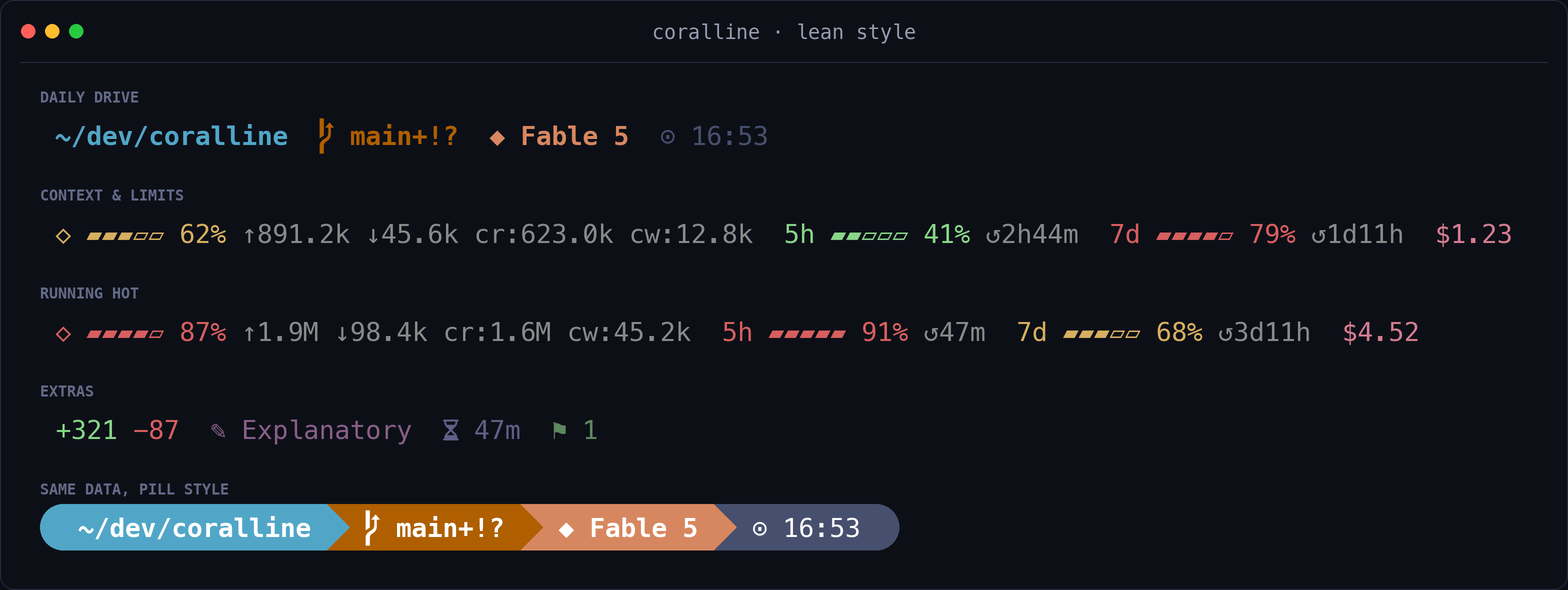
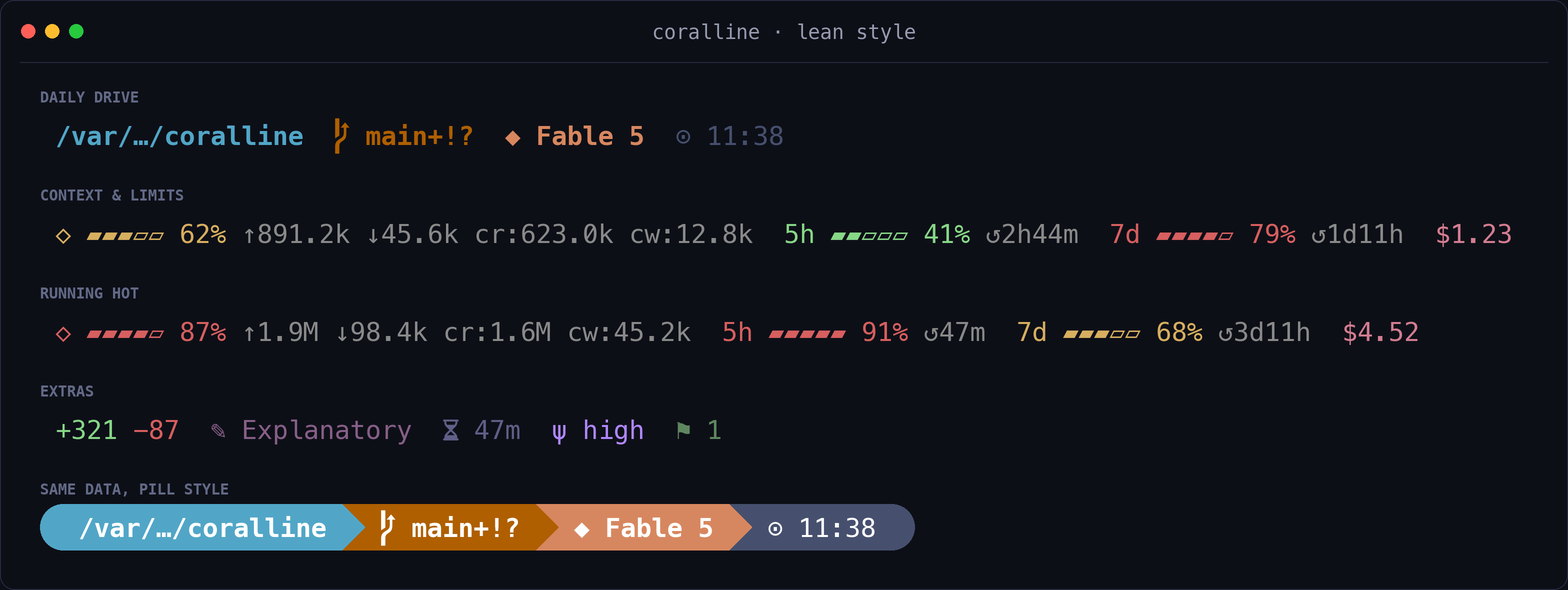
docs: surface effort in the README example, lean screenshot, and an overview image
- add `ψ high` to the headline statusline example (README + zh-TW)
- add effort to the lean-style "extras" demo and regenerate style-lean.png
- add assets/effort-segment.png showcasing the ψ pill across all effort levels

Changed region(s): [[0.0312, 0.8542, 0.5938, 0.9458], [0.0312, 0.1831, 0.5, 0.2746], [0.3438, 0.7017, 0.4375, 0.7627]]

diff --git a/tools/render-screenshots.py b/tools/render-screenshots.py
@@ -295,7 +295,7 @@ def lean_blocks():
         ("daily drive",       run_bar("claude-coral", "dir git model clock", LOW, lean)),
         ("context & limits",  run_bar("claude-coral", "ctx limit5h limit7d cost", MID, lean)),
         ("running hot",       run_bar("claude-coral", "ctx limit5h limit7d cost", HIGH, lean)),
-        ("extras",            run_bar("claude-coral", "lines style duration stash", HIGH, lean)),
+        ("extras",            run_bar("claude-coral", "lines style duration effort stash", HIGH, lean)),
         ("same data, pill style", run_bar("claude-coral", "dir git model clock", LOW)),
     ]
 

diff --git a/README.md b/README.md
@@ -25,7 +25,7 @@ config editing required.
 ## What you get
 
 ```text
-╭ ~/side-project/coralline  ⎇ main+!  ◆ Fable 5  ⬡ ▰▰▰▱▱ 62% ↑1.2M ↓45.6k  5h ▰▰▱▱▱ 41% ↺2h44m  $1.23  ⊙ 02:45 pm ╮
+╭ ~/side-project/coralline  ⎇ main+!  ◆ Fable 5  ψ high  ⬡ ▰▰▰▱▱ 62% ↑1.2M ↓45.6k  5h ▰▰▱▱▱ 41% ↺2h44m  $1.23  ⊙ 02:45 pm ╮
 ```
 
 | Segment | Shows |